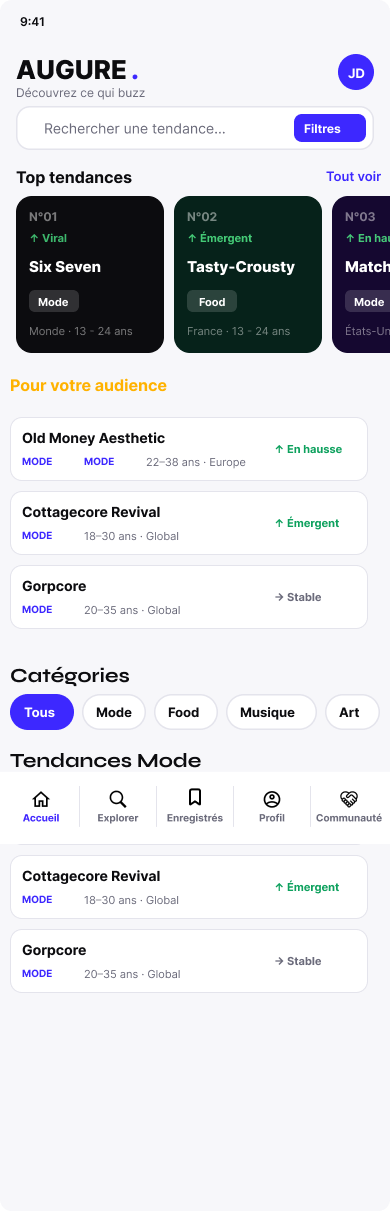
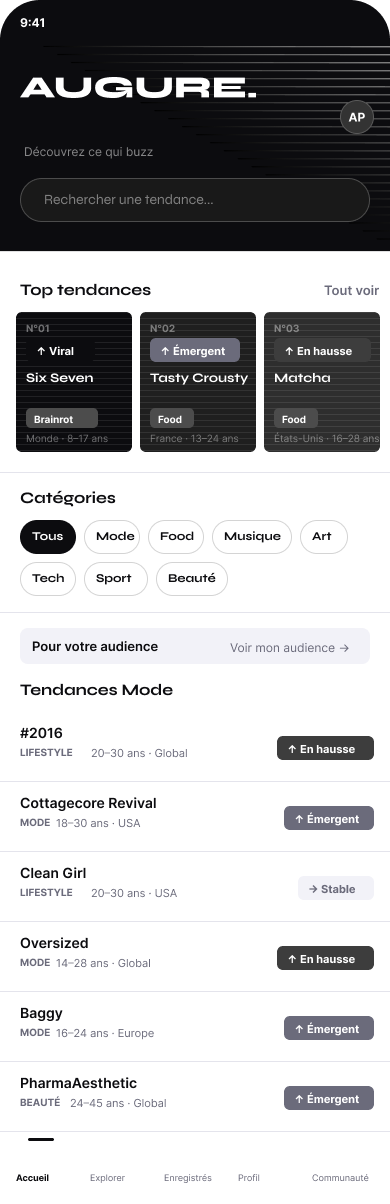
feat: update page accueil UI and color badge trends

diff --git a/app/app/page.tsx b/app/app/page.tsx
@@ -5,33 +5,21 @@ import Header from '@/components/Header';
 import SearchBar from '@/components/SearchBar';
 import TopTrendCard from '@/components/TopTrendCard';
 import TrendListItem from '@/components/TrendListItem';
-import { ApiTrend, apiGetAllTrends, apiGetRecommendedTrends } from '@/lib/api';
+import { ApiTrend, apiGetAllTrends } from '@/lib/api';
 import { Icon } from '@iconify/react';
 import Link from 'next/link';
 
-const CATEGORIES = ['Mode', 'Food', 'Musique', 'Art', 'Tech', 'Lifestyle'];
+const CATEGORIES = ['Mode', 'Food', 'Musique', 'Art', 'Tech', 'Sport', 'Beauté'];
 
 export default function Home() {
   const [activeCategory, setActiveCategory] = useState<string>('Tous');
   const [allTrends, setAllTrends] = useState<ApiTrend[]>([]);
-  const [audienceTrends, setAudienceTrends] = useState<ApiTrend[]>([]);
   const [listLoading, setListLoading] = useState(true);
-  const [audienceLoading, setAudienceLoading] = useState(true);
 
-  // Fetch all trends on mount
   useEffect(() => {
     apiGetAllTrends({ limit: 50 })
       .then(d => setAllTrends(d.items))
       .finally(() => setListLoading(false));
-  }, []);
-
-  // Fetch personalized trends if logged in
-  useEffect(() => {
-    const token = localStorage.getItem('augure_token');
-    if (!token) { setAudienceLoading(false); return; }
-    apiGetRecommendedTrends(token, 5)
-      .then(setAudienceTrends)
-      .finally(() => setAudienceLoading(false));
   }, []);
 
   const topTrends = allTrends.filter(t => t.rank != null && t.rank <= 3).slice(0, 3);
@@ -44,8 +32,14 @@ export default function Home() {
     <main className="w-full min-h-screen overflow-x-hidden">
       <div className="max-w-2xl mx-auto md:max-w-full">
 
-        <Header />
-        <SearchBar />
+        {/* ── Hero sombre ── */}
+        <div
+          className="bg-[var(--color-text-dark)] relative overflow-hidden pb-7"
+          style={{ backgroundImage: 'repeating-linear-gradient(0deg, transparent, transparent 1px, rgba(255,255,255,0.025) 1px, rgba(255,255,255,0.025) 2px)' }}
+        >
+          <Header dark />
+          <SearchBar dark />
+        </div>
 
         {/* ── Top Tendances ── */}
         <section className="mt-6">
@@ -60,31 +54,10 @@ export default function Home() {
               ? [1, 2, 3].map(i => <div key={i} className="flex-shrink-0 w-44 h-52 rounded-2xl bg-gray-200 animate-pulse" />)
               : topTrends.map(trend => <TopTrendCard key={trend.id} trend={trend} />)
             }
-            <div className="flex-shrink-0 w-10 flex items-center justify-center opacity-30 pr-2">
+            <div className="flex-shrink-0 w-8 flex items-center justify-center opacity-30">
               <Icon icon="mdi:chevron-right" className="text-3xl text-gray-500" />
             </div>
           </div>
-        </section>
-
-        {/* ── Pour votre audience ── */}
-        <section className="mt-8 px-4 md:px-8">
-          <h2 className="font-syne font-bold text-xl text-[var(--color-text-dark)] mb-3">Pour votre audience</h2>
-          {audienceLoading ? (
-            <div className="flex flex-col gap-3">
-              {[1, 2, 3].map(i => <div key={i} className="h-16 rounded-2xl bg-gray-100 animate-pulse" />)}
-            </div>
-          ) : audienceTrends.length > 0 ? (
-            <div className="flex flex-col gap-3">
-              {audienceTrends.map(t => <TrendListItem key={t.id} trend={t} />)}
-            </div>
-          ) : (
-            <div className="flex flex-col items-center gap-3 py-8 text-center">
-              <p className="font-inter text-sm text-gray-400">Complétez votre profil pour voir des tendances personnalisées.</p>
-              <a href="/onboarding" className="font-syne font-semibold text-sm text-[var(--color-text-dark)] underline underline-offset-2">
-                Configurer mon profil →
-              </a>
-            </div>
-          )}
         </section>
 
         {/* ── Catégories ── */}
@@ -101,7 +74,7 @@ export default function Home() {
               <button
                 key={cat}
                 onClick={() => setActiveCategory(cat)}
-                className={`flex-shrink-0 px-5 py-2 rounded-full font-syne font-semibold text-sm transition-all ${activeCategory === cat ? 'bg-[var(--color-primary)] text-white' : 'bg-white text-[var(--color-text-dark)] border border-gray-200 hover:border-gray-400'}`}
+                className={`flex-shrink-0 px-5 py-2 rounded-full font-syne font-semibold text-sm transition-all ${activeCategory === cat ? 'bg-[var(--color-text-dark)] text-white' : 'bg-white text-[var(--color-text-dark)] border border-gray-200 hover:border-gray-400'}`}
               >
                 {cat}
               </button>
@@ -109,9 +82,19 @@ export default function Home() {
           </div>
         </section>
 
+        {/* ── Pour votre audience — bannière compacte ── */}
+        <section className="mt-6 px-4 md:px-8">
+          <div className="bg-white rounded-2xl px-5 py-4 flex items-center justify-between shadow-[0_1px_4px_rgba(0,0,0,0.06)]">
+            <span className="font-syne font-bold text-[var(--color-text-dark)] text-base">Pour votre audience</span>
+            <Link href="/profile" className="font-inter text-sm text-gray-400 hover:text-[var(--color-text-dark)] transition-colors whitespace-nowrap">
+              Voir mon audience →
+            </Link>
+          </div>
+        </section>
+
         {/* ── Tendances filtrées ── */}
         <section className="mt-6 px-4 md:px-8 pb-10">
-          <h2 className="font-syne font-bold text-xl text-[var(--color-text-dark)] mb-4">
+          <h2 className="font-syne font-bold text-2xl text-[var(--color-text-dark)] mb-4">
             Tendances{activeCategory !== 'Tous' ? ` ${activeCategory}` : ''}
           </h2>
           {listLoading ? (

diff --git a/app/app/globals.css b/app/app/globals.css
@@ -24,6 +24,34 @@ body {
   -webkit-font-smoothing: antialiased;
 }
 
+/* ── Status badge colors ─────────────────────────────────────────────────── */
+:root {
+  --color-status-viral:     #2c2c2ee6;
+  --color-status-en-hausse: #000000;
+  --color-status-emergent:  #6B6B7B;
+  --color-status-stable:    #D4D4D4;
+  --color-status-en-baisse: #FFFFFF;
+}
+
+.badge-status {
+  display: inline-flex;
+  align-items: center;
+  gap: 0.25rem;
+  padding: 0.25rem 0.625rem;
+  border-radius: 9999px;
+  font-family: var(--font-inter);
+  font-size: 0.75rem;
+  font-weight: 600;
+  color: #fff;
+  white-space: nowrap;
+}
+
+.badge-status-viral     { background-color: var(--color-status-viral); }
+.badge-status-en_hausse { background-color: var(--color-status-en-hausse); }
+.badge-status-emergent  { background-color: var(--color-status-emergent); }
+.badge-status-stable    { background-color: var(--color-status-stable); }
+.badge-status-en_baisse { background-color: var(--color-status-en-baisse); }
+
 /* Scrollbar horizontal masquée mais fonctionnelle */
 .scrollbar-hide {
   -ms-overflow-style: none;

diff --git a/app/components/SearchBar.tsx b/app/components/SearchBar.tsx
@@ -4,7 +4,7 @@ import { Icon } from '@iconify/react';
 import { useState } from 'react';
 import { useRouter } from 'next/navigation';
 
-export default function SearchBar() {
+export default function SearchBar({ dark = false }: { dark?: boolean }) {
   const [query, setQuery] = useState('');
   const router = useRouter();
 
@@ -18,28 +18,20 @@ export default function SearchBar() {
   return (
     <form
       onSubmit={handleSubmit}
-      className="flex items-center gap-2 px-4 mt-3 mb-1 md:px-8 w-full"
+      className="flex items-center px-4 mt-3 mb-1 md:px-8 w-full"
     >
-      {/* Champ de recherche — prend tout l'espace dispo, ne peut pas dépasser */}
-      <div className="flex items-center bg-white rounded-xl border border-gray-100 shadow-sm px-3 py-3 min-w-0 flex-1 focus-within:border-[var(--color-primary)] focus-within:ring-2 focus-within:ring-[var(--color-primary)]/10 transition-all">
-        <Icon icon="mdi:magnify" className="text-xl text-gray-400 flex-shrink-0" />
+      <div className={`flex items-center rounded-xl px-3 py-3 min-w-0 flex-1 transition-all ${dark
+        ? 'bg-white/10 border border-white/10 focus-within:border-white/30'
+        : 'bg-white border border-gray-100 shadow-sm focus-within:border-[var(--color-primary)] focus-within:ring-2 focus-within:ring-[var(--color-primary)]/10'}`}>
+        <Icon icon="mdi:magnify" className={`text-xl flex-shrink-0 ${dark ? 'text-white/40' : 'text-gray-400'}`} />
         <input
           type="text"
-          className="min-w-0 flex-1 bg-transparent outline-none px-2 font-inter text-[15px] text-[var(--color-text-dark)] placeholder:text-gray-400"
+          className={`min-w-0 flex-1 bg-transparent outline-none px-2 font-inter text-[15px] ${dark ? 'text-white placeholder:text-white/40' : 'text-[var(--color-text-dark)] placeholder:text-gray-400'}`}
           placeholder="Rechercher une tendance..."
           value={query}
           onChange={(e) => setQuery(e.target.value)}
         />
       </div>
-
-      {/* Bouton Filtres — largeur fixe, ne se réduit pas */}
-      <button
-        type="button"
-        className="flex-none px-4 py-3 bg-[var(--color-text-dark)] text-white font-syne font-semibold text-sm rounded-xl hover:bg-black active:scale-95 transition-all whitespace-nowrap"
-        onClick={() => router.push('/search')}
-      >
-        Filtres
-      </button>
     </form>
   );
 }

diff --git a/app/lib/api.ts b/app/lib/api.ts
@@ -27,12 +27,12 @@ export interface ApiTrend {
 /** @deprecated use ApiTrend */
 export type ScoredTrend = ApiTrend;
 
-export const STATUS_CONFIG: Record<string, { label: string; icon: string; color: string }> = {
-  viral:     { label: 'Viral',     icon: 'mdi:fire',             color: 'text-[var(--color-text-dark)]' },
-  en_hausse: { label: 'En hausse', icon: 'mdi:arrow-up-bold',    color: 'text-[var(--color-text-dark)]' },
-  emergent:  { label: 'Émergent',  icon: 'mdi:trending-up',      color: 'text-[var(--color-text-dark)]' },
-  stable:    { label: 'Stable',    icon: 'mdi:arrow-right-bold', color: 'text-gray-500' },
-  en_baisse: { label: 'En baisse', icon: 'mdi:arrow-down-bold',  color: 'text-gray-500' },
+export const STATUS_CONFIG: Record<string, { label: string; icon: string; color: string; badge: string }> = {
+  viral:     { label: 'Viral',     icon: 'mdi:fire',             color: 'text-white', badge: 'badge-status badge-status-viral'     },
+  en_hausse: { label: 'En hausse', icon: 'mdi:arrow-up-bold',    color: 'text-white', badge: 'badge-status badge-status-en_hausse' },
+  emergent:  { label: 'Émergent',  icon: 'mdi:trending-up',      color: 'text-white', badge: 'badge-status badge-status-emergent'  },
+  stable:    { label: 'Stable',    icon: 'mdi:arrow-right-bold', color: 'text-white', badge: 'badge-status badge-status-stable'    },
+  en_baisse: { label: 'En baisse', icon: 'mdi:arrow-down-bold',  color: 'text-white', badge: 'badge-status badge-status-en_baisse' },
 };
 
 // ── Auth ──────────────────────────────────────────────────────────────────────

diff --git a/app/components/TrendListItem.tsx b/app/components/TrendListItem.tsx
@@ -7,7 +7,7 @@ interface TrendListItemProps {
 }
 
 export default function TrendListItem({ trend }: TrendListItemProps) {
-  const s = STATUS_CONFIG[trend.status] ?? { label: trend.status, icon: 'mdi:circle', color: 'text-gray-400' };
+  const s = STATUS_CONFIG[trend.status] ?? { label: trend.status, icon: 'mdi:circle', color: 'text-white', badge: 'badge-status badge-status-stable' };
 
   return (
     <Link href={`?trendId=${trend.id}`} scroll={false} className="block group">
@@ -18,7 +18,7 @@ export default function TrendListItem({ trend }: TrendListItemProps) {
           </h3>
           <div className="flex items-center gap-2 mt-1 flex-wrap">
             {trend.badges?.map((badge, i) => (
-              <span key={i} className="text-[var(--color-primary)] font-inter font-semibold text-xs uppercase tracking-wide">
+              <span key={i} className="text-gray-400 font-inter font-medium text-xs uppercase tracking-wide">
                 {badge}
               </span>
             ))}
@@ -28,10 +28,10 @@ export default function TrendListItem({ trend }: TrendListItemProps) {
           </div>
         </div>
 
-        <div className={`flex items-center gap-1 flex-shrink-0 ${s.color}`}>
+        <span className={`flex-shrink-0 ${s.badge}`}>
           <Icon icon={s.icon} className="text-sm" />
-          <span className="font-inter text-sm font-semibold whitespace-nowrap">{s.label}</span>
-        </div>
+          {s.label}
+        </span>
       </div>
     </Link>
   );

diff --git a/app/components/Header.tsx b/app/components/Header.tsx
@@ -16,7 +16,7 @@ function getInitialFromToken(token: string): string {
   }
 }
 
-export default function Header() {
+export default function Header({ dark = false }: { dark?: boolean }) {
   const router = useRouter();
   const [open, setOpen] = useState(false);
   const [initial, setInitial] = useState('');
@@ -48,9 +48,9 @@ export default function Header() {
     <header className="flex items-start justify-between px-4 pt-6 pb-2 md:px-8">
       <div>
         <Link href="/" className="flex items-center gap-0.5">
-          <Image src="/logo-black.svg" alt="Augure" width={110} height={26} priority style={{ height: 'auto' }} />
+          <Image src={dark ? '/logo-white.svg' : '/logo-black.svg'} alt="Augure" width={110} height={26} priority style={{ height: 'auto' }} />
         </Link>
-        <p className="font-inter text-sm text-gray-500 mt-0.5 ml-0.5">Découvrez ce qui buzz</p>
+        <p className={`font-inter text-sm mt-0.5 ml-0.5 ${dark ? 'text-white/50' : 'text-gray-500'}`}>Découvrez ce qui buzz</p>
       </div>
 
       <div ref={containerRef} className="relative flex-shrink-0">
@@ -58,7 +58,7 @@ export default function Header() {
           onClick={() => setOpen(o => !o)}
           aria-label="Mon profil"
           aria-expanded={open}
-          className="w-10 h-10 rounded-full bg-[var(--color-primary)] text-white font-syne font-bold text-sm flex items-center justify-center shadow-md hover:opacity-80 transition-opacity"
+          className={`w-10 h-10 rounded-full font-syne font-bold text-sm flex items-center justify-center hover:opacity-80 transition-opacity ${dark ? 'bg-white/15 text-white border border-white/25' : 'bg-[var(--color-primary)] text-white shadow-md'}`}
         >
           {initial
             ? initial

diff --git a/app/components/TopTrendCard.tsx b/app/components/TopTrendCard.tsx
@@ -7,7 +7,7 @@ interface TopTrendCardProps {
 }
 
 export default function TopTrendCard({ trend }: TopTrendCardProps) {
-  const s = STATUS_CONFIG[trend.status] ?? { label: trend.status, icon: 'mdi:circle', color: 'text-white' };
+  const s = STATUS_CONFIG[trend.status] ?? { label: trend.status, icon: 'mdi:circle', color: 'text-white', badge: 'badge-status badge-status-stable' };
 
   return (
     <Link href={`?trendId=${trend.id}`} scroll={false} className="block flex-shrink-0 w-44">
@@ -16,10 +16,10 @@ export default function TopTrendCard({ trend }: TopTrendCardProps) {
           <p className="font-inter text-xs text-gray-400 mb-1">
             N°{String(trend.rank ?? '–').padStart(2, '0')}
           </p>
-          <div className="flex items-center gap-1 text-white mb-3">
+          <span className={`inline-flex mb-3 ${s.badge}`}>
             <Icon icon={s.icon} className="text-xs" />
-            <span className="font-inter text-xs font-medium">{s.label}</span>
-          </div>
+            {s.label}
+          </span>
           <h3 className="font-syne font-bold text-white text-lg leading-tight line-clamp-2">
             {trend.title}
           </h3>

diff --git a/app/components/BottomNav.tsx b/app/components/BottomNav.tsx
@@ -6,8 +6,11 @@ import { usePathname } from 'next/navigation';
 import Image from 'next/image';
 
 const navItems = [
-  { href: '/', label: 'Accueil', iconActive: 'mdi:home', iconInactive: 'mdi:home-outline' },
-  { href: '/search', label: 'Explorer', iconActive: 'mdi:compass', iconInactive: 'mdi:compass-outline' },
+  { href: '/',           label: 'Accueil',     iconActive: 'mdi:home',          iconInactive: 'mdi:home-outline'          },
+  { href: '/search',     label: 'Explorer',    iconActive: 'mdi:compass',       iconInactive: 'mdi:compass-outline'       },
+  { href: '/saved',      label: 'Enregistrés', iconActive: 'mdi:bookmark',      iconInactive: 'mdi:bookmark-outline'      },
+  { href: '/profile',    label: 'Profil',      iconActive: 'mdi:account',       iconInactive: 'mdi:account-outline'       },
+  { href: '/community',  label: 'Communauté',  iconActive: 'mdi:account-group', iconInactive: 'mdi:account-group-outline' },
 ];
 
 const HIDDEN_PATHS = ['/welcome', '/login', '/onboarding'];

diff --git a/app/components/ExplorerTrendCard.tsx b/app/components/ExplorerTrendCard.tsx
@@ -7,7 +7,7 @@ interface ExplorerTrendCardProps {
 }
 
 export default function ExplorerTrendCard({ trend }: ExplorerTrendCardProps) {
-  const s = STATUS_CONFIG[trend.status] ?? { label: trend.status, icon: 'mdi:circle', color: 'text-gray-400' };
+  const s = STATUS_CONFIG[trend.status] ?? { label: trend.status, icon: 'mdi:circle', color: 'text-white', badge: 'badge-status badge-status-stable' };
 
   return (
     <Link href={`?trendId=${trend.id}`} scroll={false} className="block group">
@@ -34,7 +34,7 @@ export default function ExplorerTrendCard({ trend }: ExplorerTrendCardProps) {
           )}
 
           <div className="flex items-center gap-2 flex-wrap">
-            <span className={`flex items-center gap-1 font-inter font-semibold text-sm ${s.color}`}>
+            <span className={s.badge}>
               <Icon icon={s.icon} className="text-xs" />
               {s.label}
             </span>